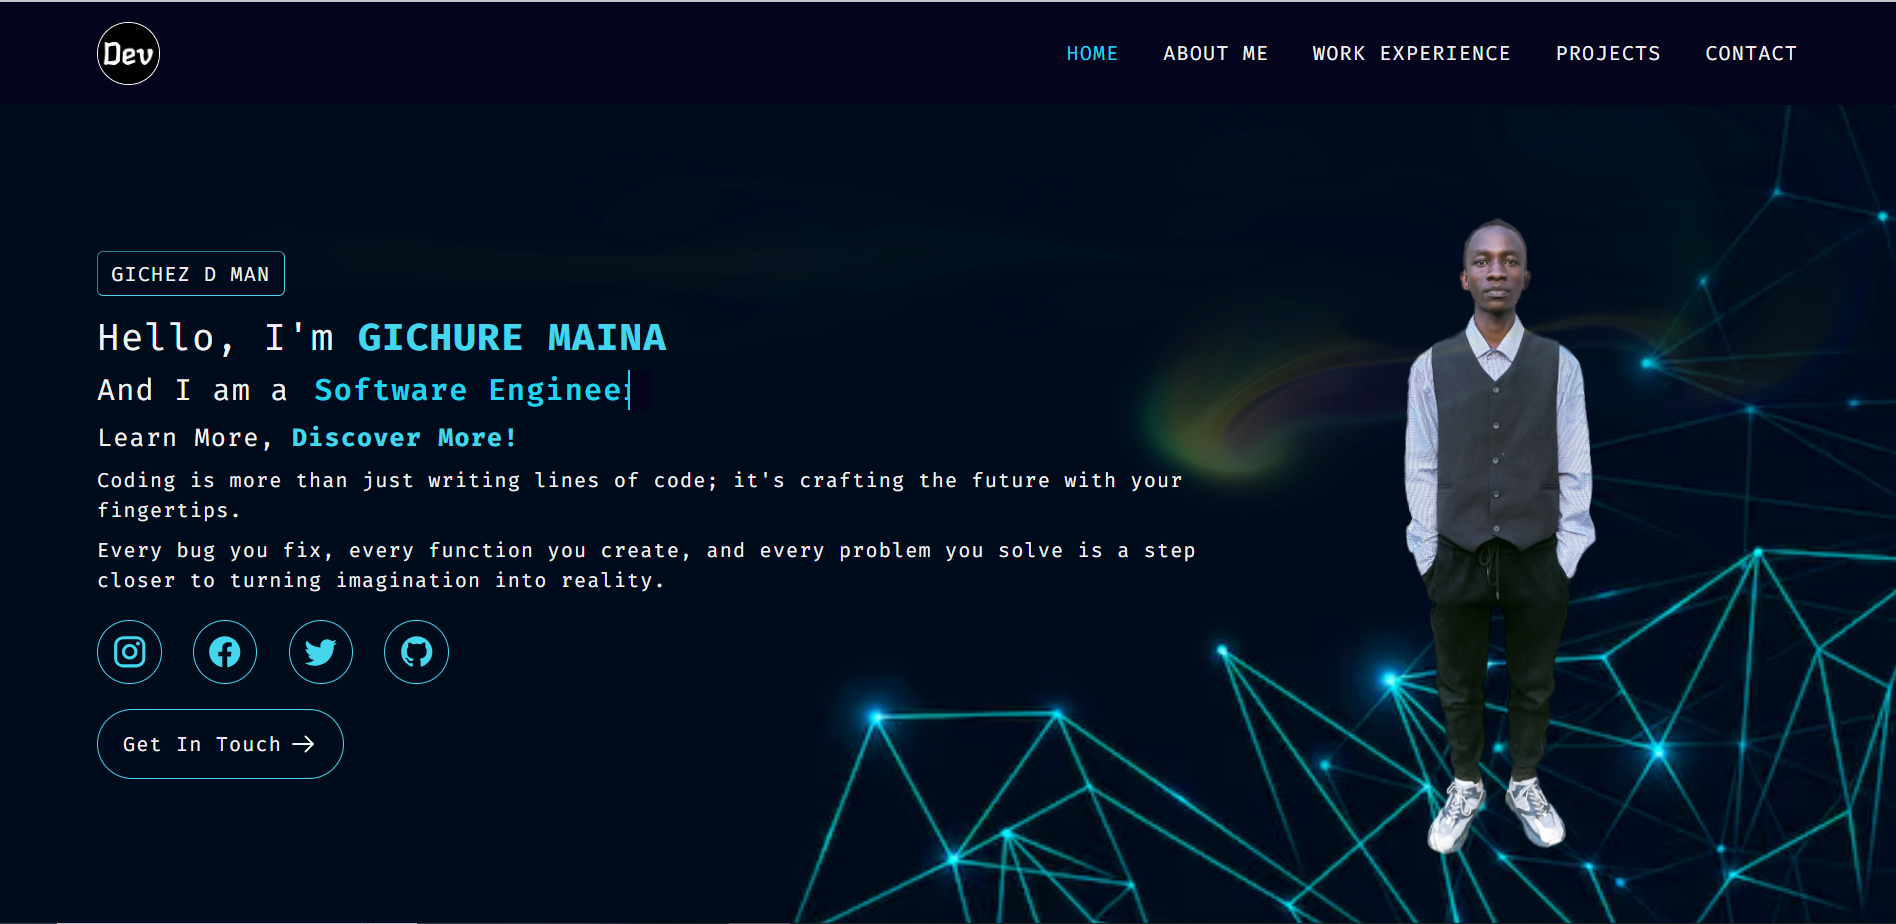
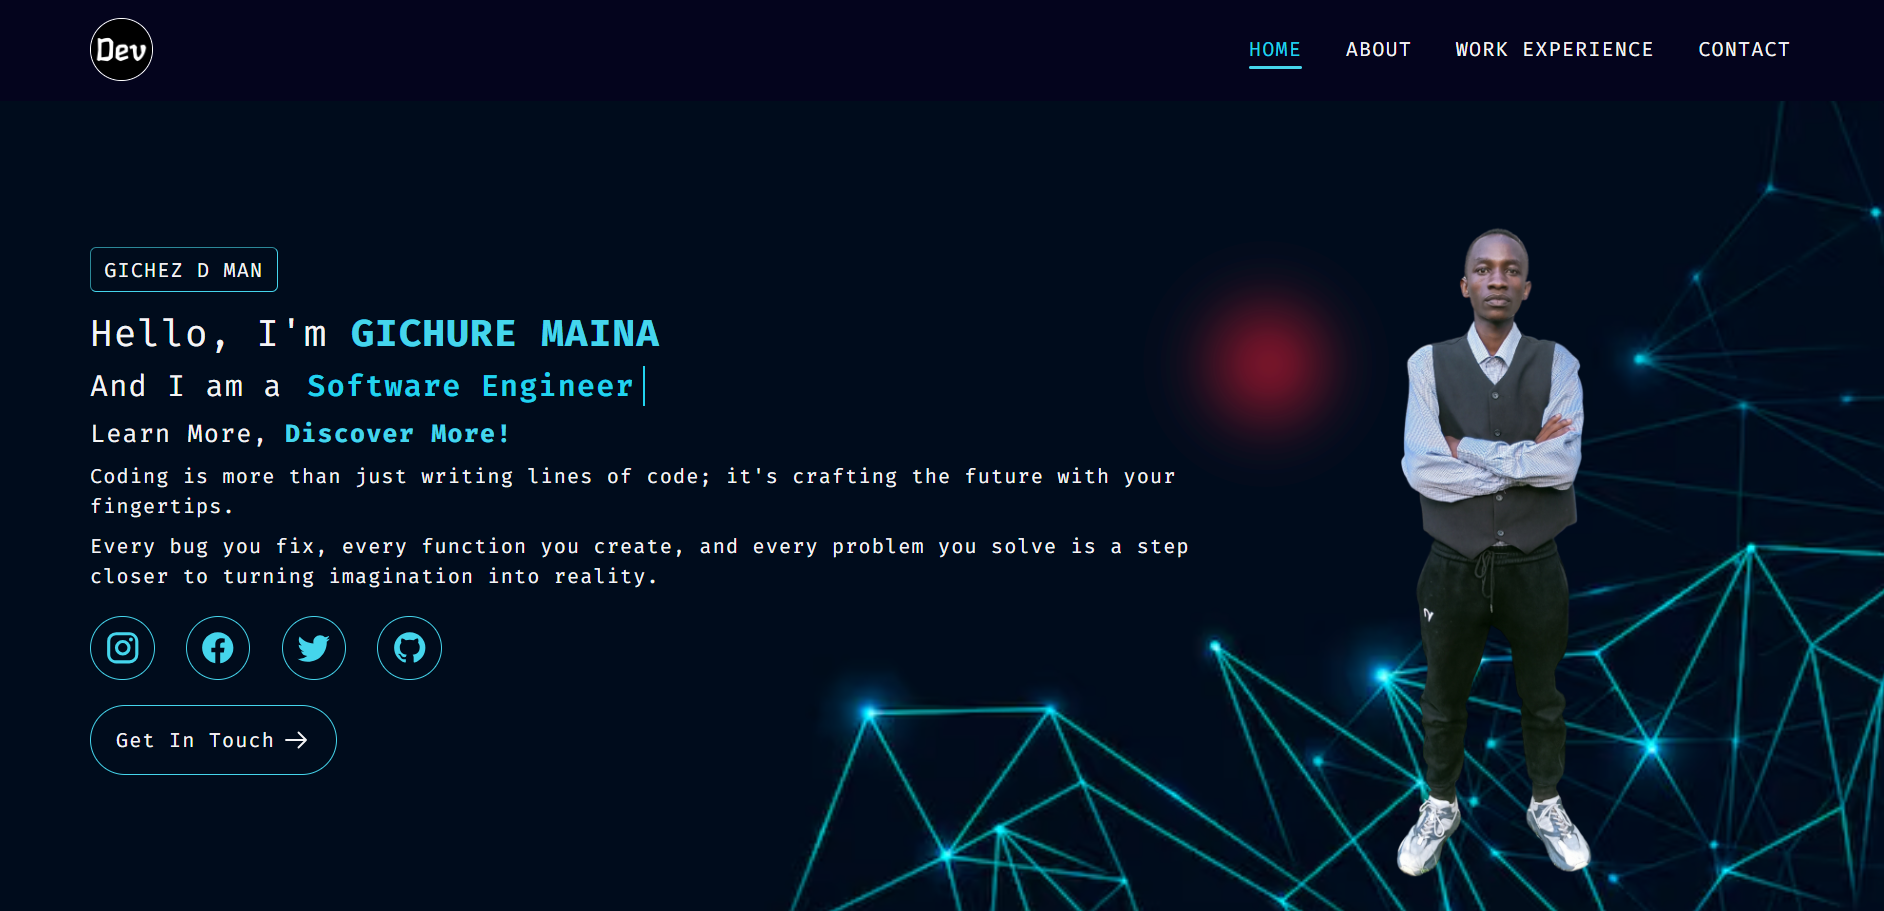
Portfolio Complete (Desktop View)

diff --git a/vulture/src/assets/Pages/Home.jsx b/vulture/src/assets/Pages/Home.jsx
@@ -2,11 +2,12 @@ import React from "react";
 import { useEffect } from "react";
 import Navbar from "../components/NavBar/Navbar";
 import { Icon } from "@iconify/react";
-import ProfileA from "../images/profile2.png";
+import ProfileA from "../images/Profile.png";
 import ProfileB from "../images/profile3.png";
 import "../styles/Home.css";
 import "../styles/About.css";
 import "../styles/Experience.css";
+import "../styles/Projects.css";
 import "../styles/Contact.css";
 import Aos from "aos";
 import "aos/dist/aos.css";
@@ -51,16 +52,16 @@ const Home = () => {
             solve is a step closer to turning imagination into reality.
           </p>
           <div className="social-media-icons flex gap-[25px] mt-[20px] mb-[20px]">
-            <a href="/instagram" className="icon">
+            <a href="https://www.instagram.com" className="icon">
               <Icon icon="mdi:instagram" width={30} height={30} />
             </a>
-            <a href="/facebook" className="icon">
-              <Icon icon="mdi:facebook" width={30} height={30} />
+            <a href="https://www.youtube.com/@gichezdman" className="icon">
+              <Icon icon="mdi:youtube" width={30} height={30} />
             </a>
-            <a href="/twitter" className="icon">
-              <Icon icon="mdi:twitter" width={30} height={30} />
+            <a href="https://www.linkedin.com/in/gichure-maina-a45aab202/" className="icon">
+              <Icon icon="mdi:linkedin" width={30} height={30} />
             </a>
-            <a href="/github" className="icon">
+            <a href="https://github.com/KyleGichez" className="icon">
               <Icon icon="mdi:github" width={30} height={30} />
             </a>
           </div>
@@ -70,7 +71,7 @@ const Home = () => {
           </button>
         </div>
         <div className="image-wrapper w-[700px]">
-          <img src={ProfileA} alt="profile_imageA" />
+          <img src={ProfileA} alt="profile_imageA" className="w-[100%] h-[auto]" />
         </div>
       </section>
 
@@ -91,7 +92,7 @@ const Home = () => {
               className="about-me-image w-[1500px] px-[5px]"
               data-aos="fade-right"
             >
-              <img src={ProfileB} alt="profile_imageB" />
+              <img src={ProfileB} alt="profile_imageB" className="w-[100%] h-[auto]" />
             </div>
             <div className="about-me-text" data-aos="fade-up">
               <p>
@@ -241,7 +242,7 @@ const Home = () => {
             data-aos="fade-up"
           >
             <div className="company-name w-[500px]">
-              <h3 className="text-xl bold uppercase mb-[20px] flex gap-[10px]">
+              <h2 className="text-xl bold uppercase mb-[20px] flex gap-[10px]">
                 <span>
                   <Icon
                     icon="material-symbols-light:home-work-rounded"
@@ -250,7 +251,7 @@ const Home = () => {
                   />
                 </span>
                 Samis Software Limited
-              </h3>
+              </h2>
               <p className="mb-[20px] flex gap-[10px]">
                 <span>
                   <Icon icon="healthicons:social-work" width="24" height="24" />
@@ -275,9 +276,9 @@ const Home = () => {
               </p>
             </div>
             <div className="company-department">
-              <h3 className="text-xl bold uppercase mb-[20px]">
+              <h2 className="text-xl bold uppercase mb-[20px]">
                 Software Engineer
-              </h3>
+              </h2>
               <ul className="company-role">
                 <li className="mb-[10px]">
                   Develop and maintain responsive user-friendly interfaces using
@@ -388,9 +389,9 @@ const Home = () => {
           </span>
           Contact Me
         </h1>
-        <div className="contact-form" data-aos='fade-up'>
+        <div className="contact-form" data-aos="fade-up">
           <form action={""} method="POST" className="flex flex-col gap-[20px]">
-            <legend className='text-xl bold uppercase'>Get In Touch: </legend>
+            <legend className="text-xl bold uppercase">Get In Touch: </legend>
             <div className="flex gap-[20px]">
               <div className="form-input flex flex-col gap-[10px] w-[100%] mb-[10px]">
                 <label htmlFor="Fname">First Name</label>
@@ -411,7 +412,11 @@ const Home = () => {
             </div>
             <div className="form-input flex flex-col gap-[10px] w-[100%] mb-[10px]">
               <label htmlFor="Lname">Email Address</label>
-              <input type="email" placeholder="Enter your email address" required />
+              <input
+                type="email"
+                placeholder="Enter your email address"
+                required
+              />
             </div>
             <div className="form-text-area flex flex-col gap-[10px] mb-[20px]">
               <label htmlFor="message">Your Message</label>
@@ -431,9 +436,9 @@ const Home = () => {
       </section>
 
       {/* Footer */}
-      <footer className='footer flex justify-between px-20 py-[20px]'>
+      <footer className="footer flex justify-between px-20 py-[20px]" role="contentinfo">
         <p>Coding Is Art.</p>
-        <p>Copyright &copy; 2025</p>
+        <p>Copyright &copy; 2025 All Rights Reserved.</p>
         <p>Developed by Gichure Maina.</p>
       </footer>
     </>

diff --git a/vulture/src/assets/components/NavBar/Navbar.jsx b/vulture/src/assets/components/NavBar/Navbar.jsx
@@ -1,37 +1,68 @@
-import React from 'react';
-import Logo from '../../images/icon512.png';
-import '../../styles/navbar.css';
-import { Link } from 'react-scroll';
+import React from "react";
+import Logo from "../../images/icon512.png";
+import "../../styles/navbar.css";
+import { Link } from "react-scroll";
 
 const Navbar = () => {
   return (
-    <div className='navbar-container px-20 py-4 w-full fixed'>
-        <div className="navbar-wrapper flex justify-between items-center cursor-pointer">
-            <div className="navbar-logo">
-                <div className="logo-image w-[50px] h-[50px]}">
-                    <img src={Logo} alt="logo" />
-                </div>
-            </div>
-            <ul className="nav-items uppercase flex gap-[35px]">
-                <li className="nav-item">
-                    <Link activeClass='nav-item-active' to='home' spy={true} smooth={true} offset={-50}>home</Link>
-                </li>
-                <li className="nav-item">
-                    <Link activeClass='nav-item-active' to='about' spy={true} smooth={true} offset={-50}>about</Link>
-                </li>
-                <li className="nav-item">
-                    <Link activeClass='nav-item-active' to='experience' spy={true} smooth={true} offset={-50}>work experience</Link>
-                </li>
-                {/* <li className="nav-item">
-                    <Link activeClass='nav-item-active' to='projects' spy={true} smooth={true} offset={-50}>projects</Link>
-                </li> */}
-                <li className="nav-item">
-                    <Link activeClass='nav-item-active' to='contact' spy={true} smooth={true} offset={-50}>contact</Link>
-                </li>
-            </ul>
+    <div className="navbar-container px-20 py-4 w-full fixed">
+      <div className="navbar-wrapper flex justify-between items-center cursor-pointer">
+        <div className="navbar-logo">
+          <div className="logo-image w-[50px] h-[50px]}">
+            <img src={Logo} alt="logo" />
+          </div>
         </div>
+        <nav role="navigation">
+          <ul className="nav-items uppercase flex gap-[35px]">
+            <li className="nav-item">
+              <Link
+                activeClass="nav-item-active"
+                to="home"
+                spy={true}
+                smooth={true}
+                offset={-20}
+              >
+                home
+              </Link>
+            </li>
+            <li className="nav-item">
+              <Link
+                activeClass="nav-item-active"
+                to="about"
+                spy={true}
+                smooth={true}
+                offset={-20}
+              >
+                about
+              </Link>
+            </li>
+            <li className="nav-item">
+              <Link
+                activeClass="nav-item-active"
+                to="experience"
+                spy={true}
+                smooth={true}
+                offset={-20}
+              >
+                work experience
+              </Link>
+            </li>
+            <li className="nav-item">
+              <Link
+                activeClass="nav-item-active"
+                to="contact"
+                spy={true}
+                smooth={true}
+                offset={-20}
+              >
+                contact
+              </Link>
+            </li>
+          </ul>
+        </nav>
+      </div>
     </div>
-  )
-}
+  );
+};
 
-export default Navbar
+export default Navbar;

diff --git a/vulture/index.html b/vulture/index.html
@@ -1,10 +1,14 @@
-<!doctype html>
+<!DOCTYPE html>
 <html lang="en">
   <head>
     <meta charset="UTF-8" />
-    <link rel="icon" type="image/svg+xml" href="/vite.svg" />
+    <link rel="icon" type="image/svg+xml" href="./src/assets/images/icon512.png" />
     <meta name="viewport" content="width=device-width, initial-scale=1.0" />
-    <title>vulture</title>
+    <meta
+      name="description"
+      content="Author: Gichure Maina,Full-stack software engineer with 5+ years of experience building scalable web applications using React, Node.js, and MongoDB. Experienced in cloud integration, REST APIs, and business-focused solutions."
+    />
+    <title>GICHURE MAINA | SOFTWARE ENGINEERING PORTFOLIO</title>
   </head>
   <body>
     <div id="root"></div>

diff --git a/vulture/src/assets/styles/Contact.css b/vulture/src/assets/styles/Contact.css
@@ -1,5 +1,5 @@
 .contact-section{
-    height: 120vh;
+    height: 130vh;
     background-image: url('../images/bg1.avif');
     background-repeat: no-repeat;
     background-size: cover;
@@ -27,11 +27,19 @@
     border-radius: 5px;
     padding: 10px 15px;
     cursor: pointer;
+    margin-bottom: 30px;
 }
 
 .submit-btn button:hover{
-    /* background-color: var(--secondary-color); */
-    /* color: var(--background-color); */
+    background-color: var(--secondary-color);
+    color: var(--background-color);
     border: 1px solid var(--secondary-color);
     transition: all .3s ease-in-out;
+}
+
+form{
+    border: 1px solid #ffff;
+    padding: 15px 25px;
+    background-color: var(--background-color);
+    border-radius: 5px;
 }

diff --git a/vulture/src/assets/styles/Projects.css b/vulture/src/assets/styles/Projects.css
@@ -1,0 +1,6 @@
+.projects-section{
+    height: 120vh;
+    background-image: url('../images/bg.avif');
+    background-repeat: no-repeat;
+    background-size: cover;
+}
